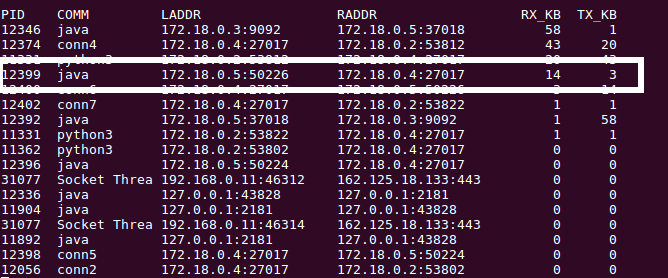
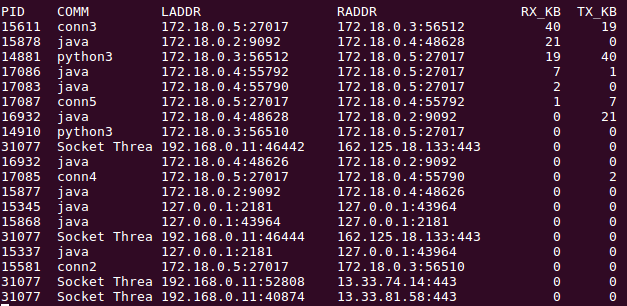
Fix some wording, add tcp for loader fix tcp for system.

diff --git a/_posts/2018-04-09-bcc.html b/_posts/2018-04-09-bcc.html
@@ -23,9 +23,8 @@ tracking down the cause of the bottleneck.
 </p>
 
 <p>
-Although this is ostensibly a post about using BCC, I also wanted to illustrate my approach to debugging in a methodical manner; it was a new experience to me
-and I hope that others will benefit from it! <sup><a id="fnr.1" class="footref" href="#fn.1">1</a></sup>
-Given that this was part of a real job interview process, some details are intentionally obscured such as the exact renaming of the services in the text itself.
+Although this is ostensibly a post about using BCC, I also wanted to illustrate my approach to debugging in the style mentioned earlier; it was a new experience to me and I hope that others
+will benefit from it! <sup><a id="fnr.1" class="footref" href="#fn.1">1</a></sup> Because this was part of a real job interview process, some details are intentionally obscured such as the exact renaming of the services in the text itself.
 </p>
 </div>
 
@@ -107,7 +106,7 @@ Python being that high was surprising to me, to say the least. So I decided to r
 </div>
 
 <p>
-Where the -i flag just means "print output every second" and -p means "for this PID only".
+Where the -i 1 flag just means "print output every second" and -p means "for this PID only".
 </p>
 
 
@@ -221,6 +220,16 @@ So, given the non-production nature of this particular pipeline, I was able to d
 I saw that the tcp traffic going through the loader service was exactly the same indicating that there was still data for the loader service to read, despite no new records being added
 to the operation log. However, there another (and safer) way to do this.
 </p>
+
+<p>
+First, observe the tcp throughput for the loader service:
+</p>
+
+
+<div class="figure">
+<p><img src="https://b-t-g.github.io/assets/tcp_loader.png" alt="tcp_loader.png" />
+</p>
+</div>
 
 <p>
 We want to know how much the operation log growing per second and compare that to how much data is going to the loader service over tcp. I found
